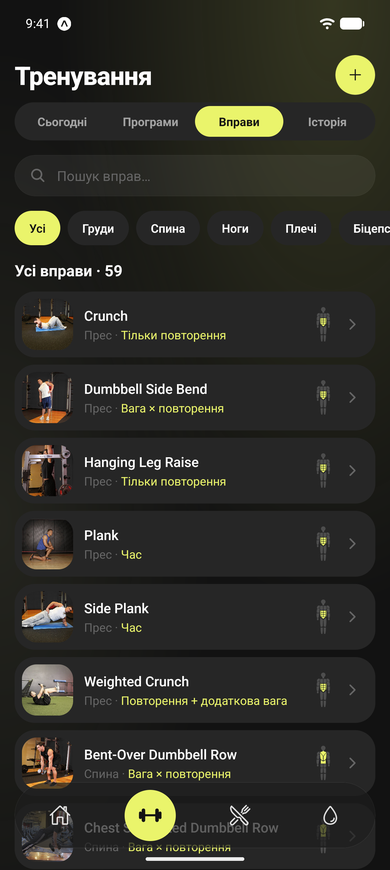
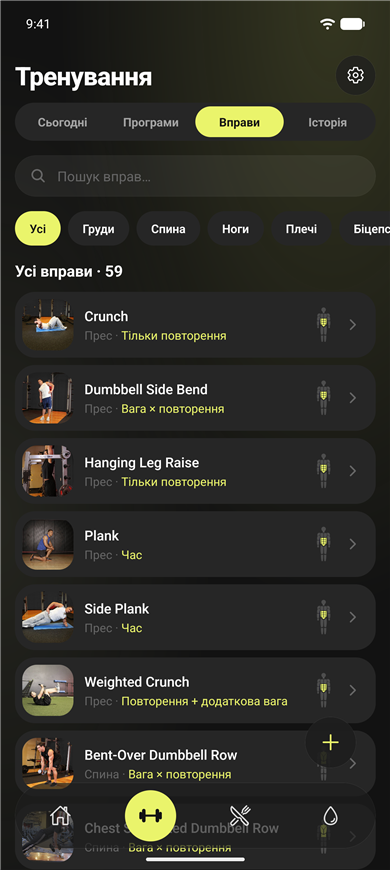
Move the training plus down to the tab bar and keep settings at the top
On Programs and Exercises the plus now floats above the tab bar on the right,
like on Food and Water, and creates a program or an exercise. The header
always shows the settings button instead.

diff --git a/src/app/(tabs)/training.tsx b/src/app/(tabs)/training.tsx
@@ -2,7 +2,7 @@ import * as Haptics from 'expo-haptics';
 import { router, useLocalSearchParams } from 'expo-router';
 import { Pressable, StyleSheet, Text, View } from 'react-native';
 
-import { useTabBarSpace } from '@/components/floating-tab-bar';
+import { TAB_BAR_FAB_SPACE, TabBarFab, useTabBarSpace } from '@/components/floating-tab-bar';
 import { Backdrop } from '@/components/glass';
 import { ExercisesView } from '@/components/training/exercises-view';
 import { HistoryView } from '@/components/training/history-view';
@@ -35,6 +35,9 @@ export default function TrainingScreen() {
   const { view } = useLocalSearchParams<{ view?: string }>();
   // The URL is the single source of truth, so links and the switcher stay in sync.
   const section: TrainingSection = isSection(view) ? view : 'today';
+  const canAdd = section === 'exercises' || section === 'programs';
+  // Lists with the plus below get room to scroll clear of it.
+  const listSpace = tabBarSpace + TAB_BAR_FAB_SPACE;
 
   // A new program starts with a placeholder name; the editor opens with it selected to retype.
   const newProgram = async () => {
@@ -54,16 +57,7 @@ export default function TrainingScreen() {
       <ScreenHeader
         title={tr('Тренування', 'Training')}
         mode="root"
-        right={
-          (section === 'exercises' || section === 'programs') && (
-            <CircleButton
-              icon="add"
-              background={colors.accent}
-              color={colors.accentText}
-              onPress={section === 'exercises' ? () => router.push('/exercise/edit') : newProgram}
-            />
-          )
-        }
+        right={<CircleButton icon="settings-outline" onPress={() => router.push('/settings')} />}
       />
       <View style={styles.segments}>
         {SECTIONS.map((s) => (
@@ -81,10 +75,21 @@ export default function TrainingScreen() {
       </View>
       <View style={styles.body}>
         {section === 'today' && <OverviewView bottomSpace={tabBarSpace} onSection={select} />}
-        {section === 'programs' && <ProgramsView bottomSpace={tabBarSpace} />}
-        {section === 'exercises' && <ExercisesView bottomSpace={tabBarSpace} />}
+        {section === 'programs' && <ProgramsView bottomSpace={listSpace} />}
+        {section === 'exercises' && <ExercisesView bottomSpace={listSpace} />}
         {section === 'history' && <HistoryView bottomSpace={tabBarSpace} />}
       </View>
+      {canAdd && (
+        <TabBarFab
+          tabCount={4}
+          label={
+            section === 'exercises'
+              ? tr('Нова вправа', 'New exercise')
+              : tr('Нова програма', 'New program')
+          }
+          onPress={section === 'exercises' ? () => router.push('/exercise/edit') : newProgram}
+        />
+      )}
     </View>
   );
 }
